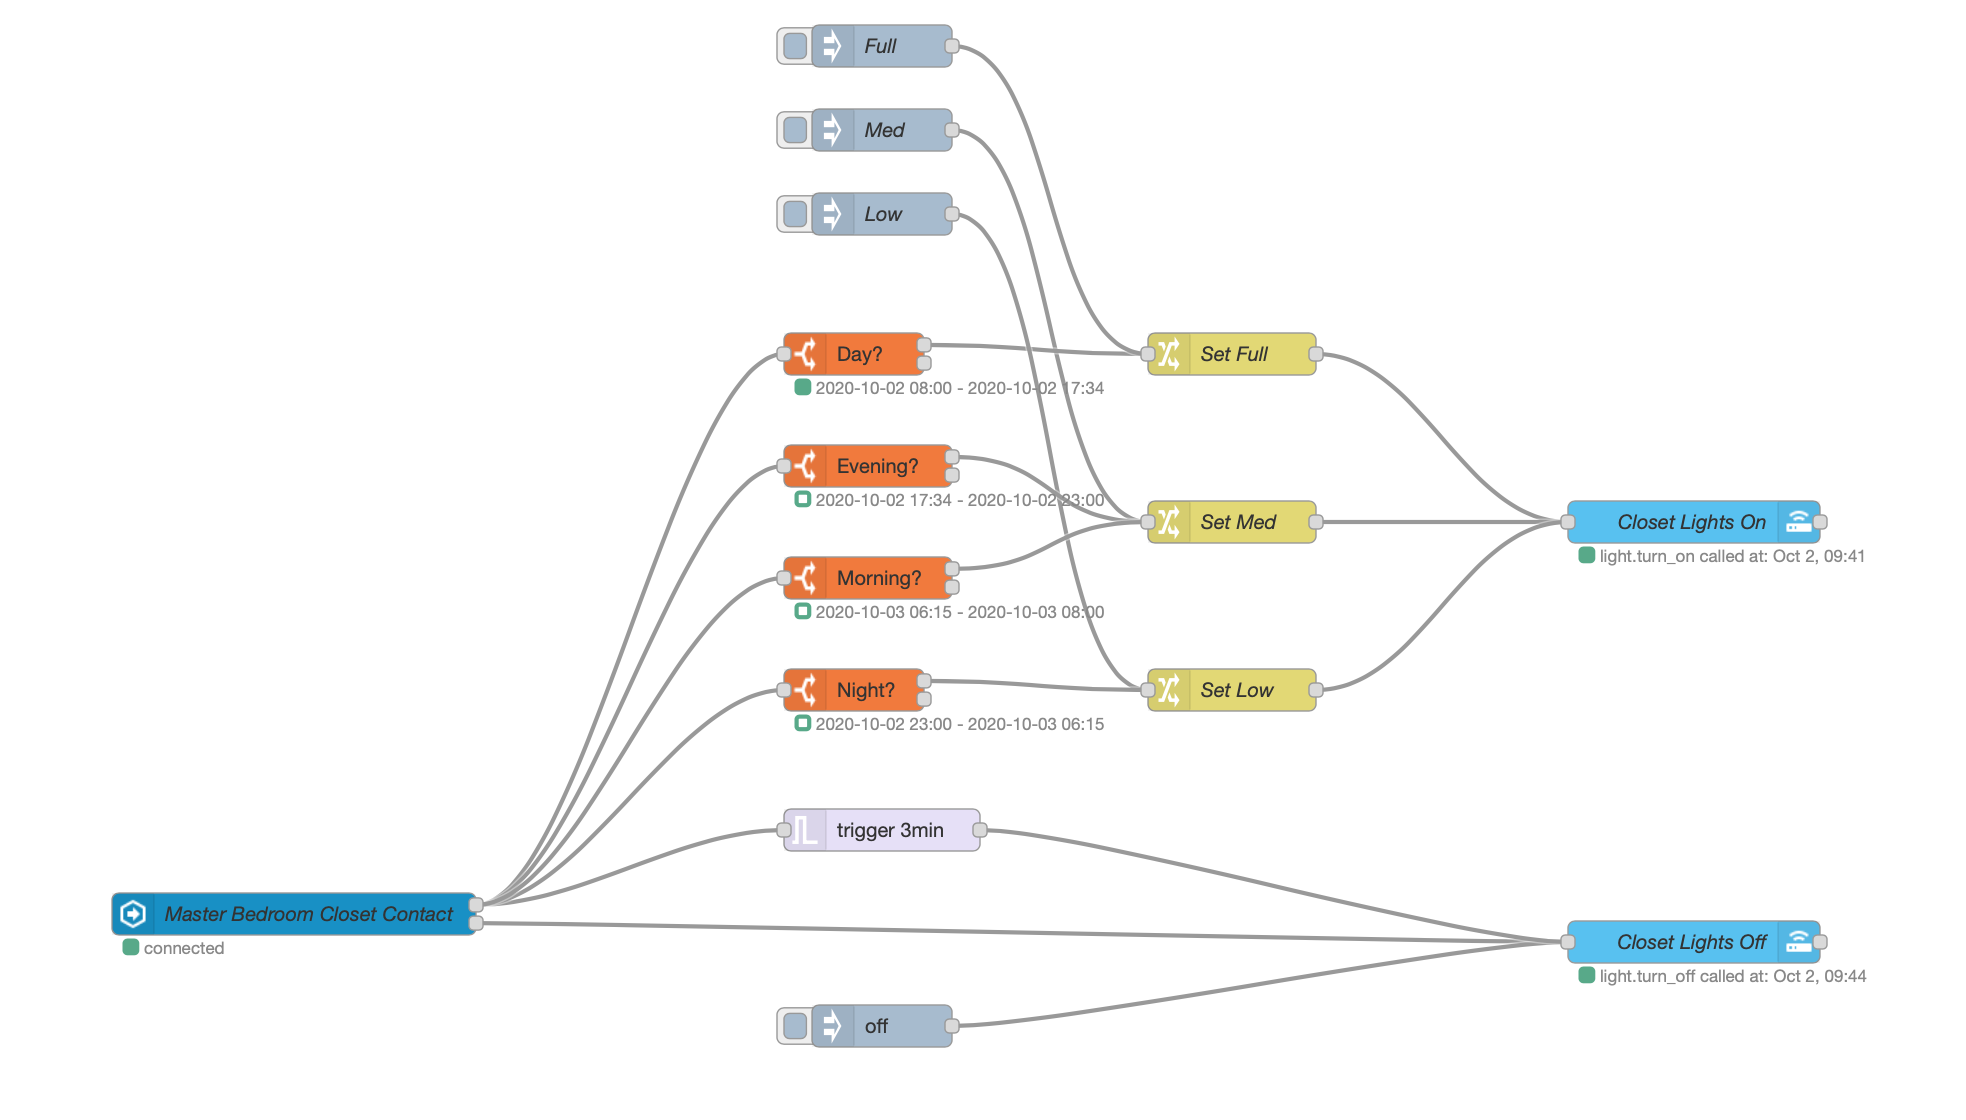
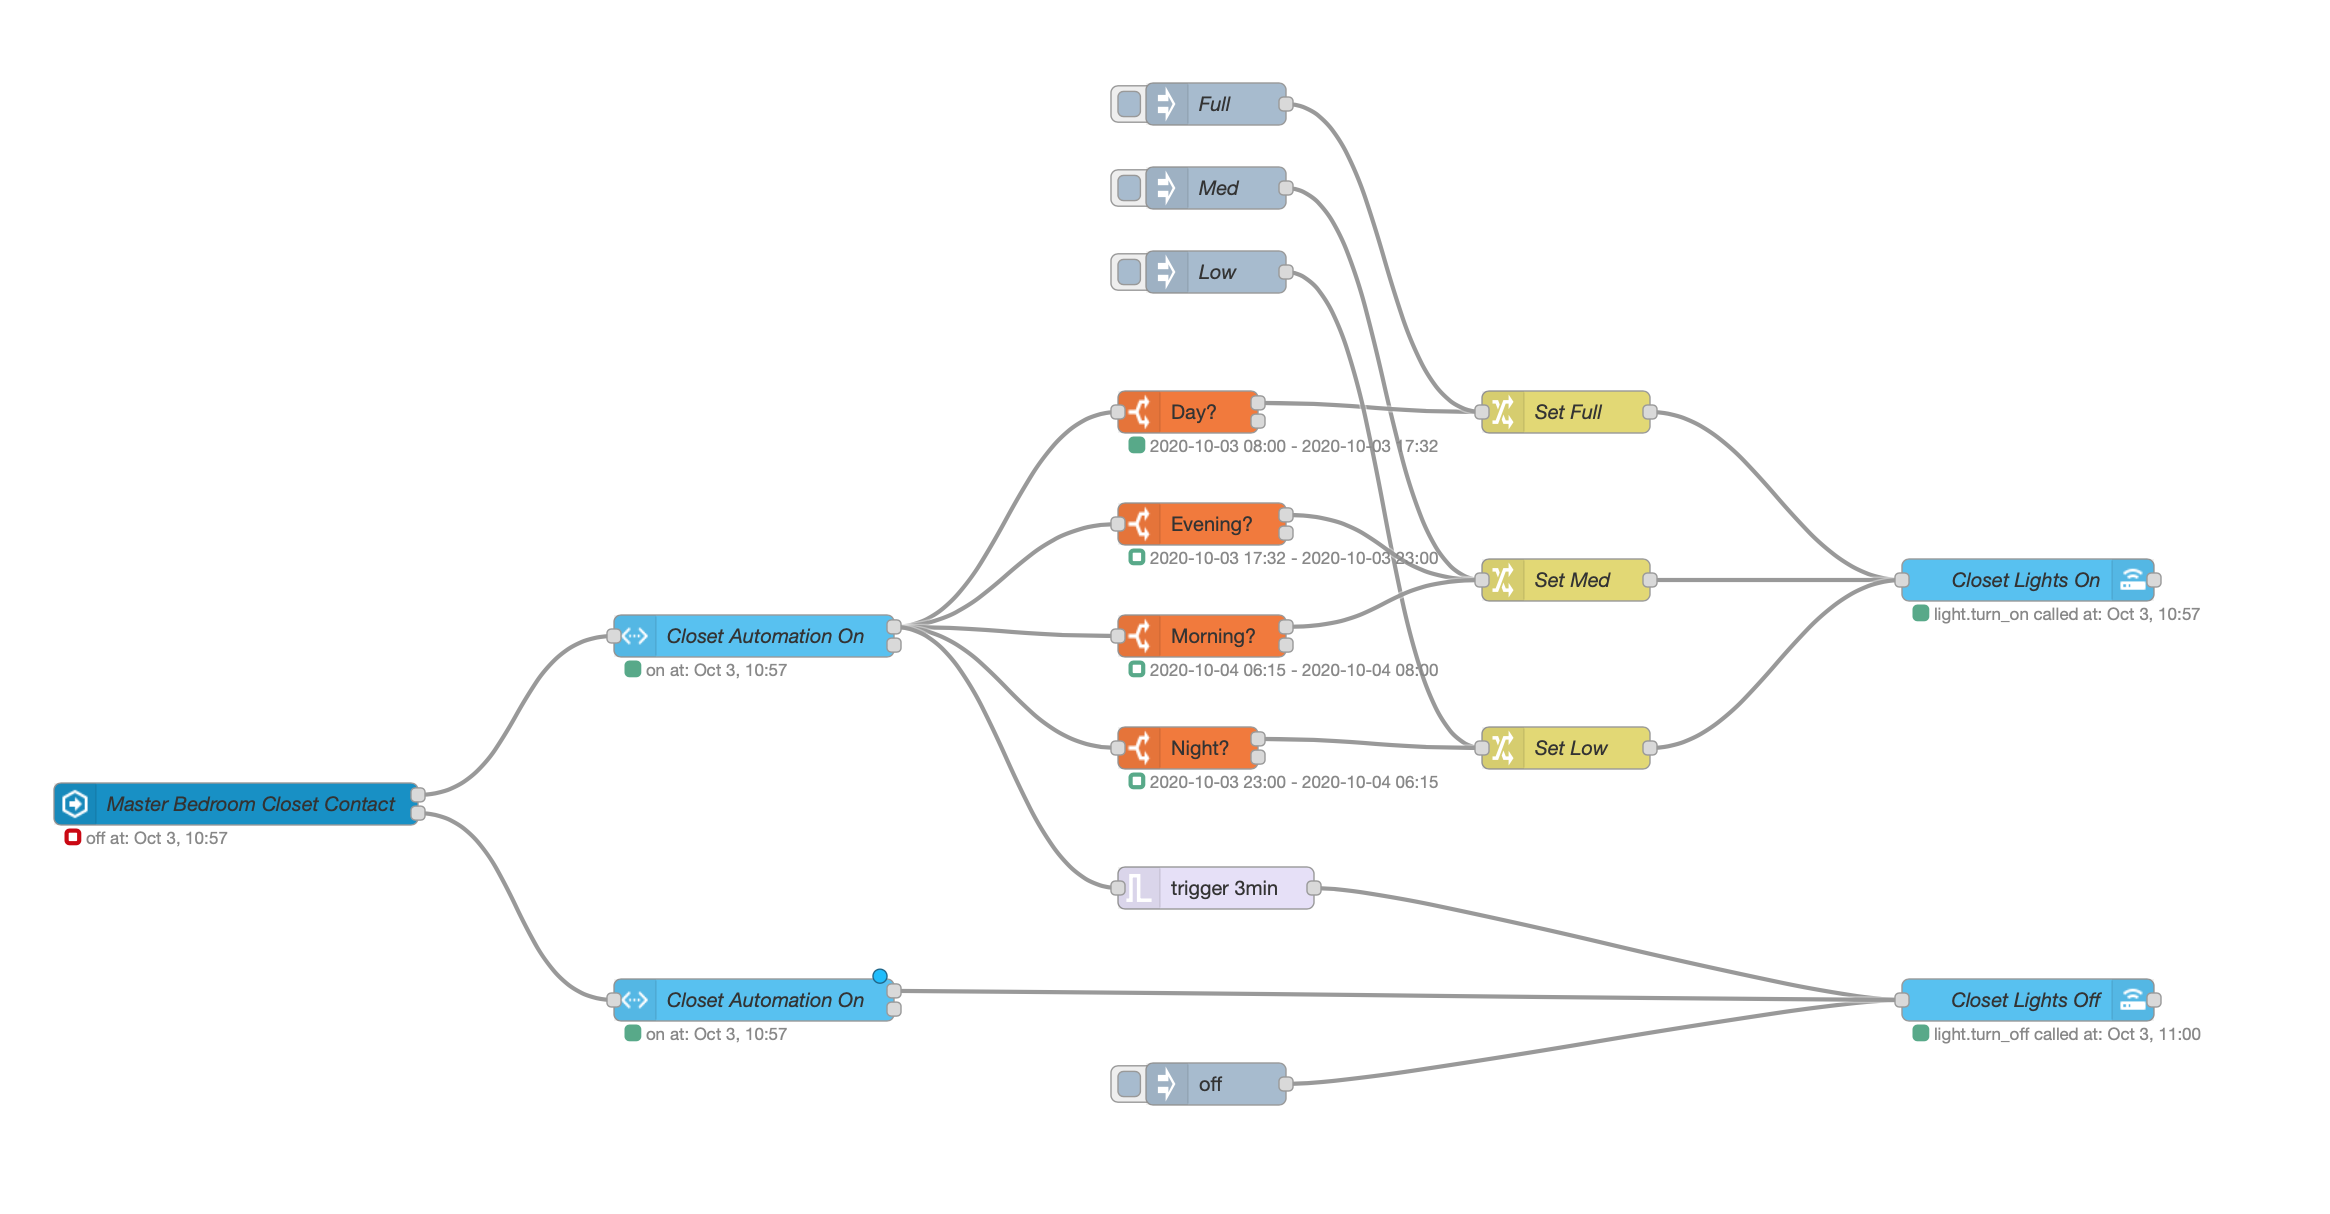
Add toggle for turn off automation

diff --git a/NodeRed/README.md b/NodeRed/README.md
@@ -18,7 +18,7 @@ In the case of usage of my webcam (Zoom, Skype,..), my Aurora light is less satu
 - [x] Add an input boolean for turn off automation from HA, Homekit and Siri
 - [ ] Control an On-Air light outside of the office base mic usage on the computer
 
-Inserte in the configuration.yaml
+Insert in the configuration.yaml
 ```yml
 input_boolean:
    office_automation:
@@ -37,9 +37,19 @@ The code: ![Office Light Json](officeLight.json)
 One of my first automation was to control the light of my closet with the door sensor (Aqara).
 - [x] Door is open -> light go on
 	(The intensity and color temperature are control base time of the day and sunrise/sunset)
-- [x]  Door is close -> light go off 
-- [x]  Door is open mode than 3 minutes -> light go off 
+- [x] Door is close -> light go off 
+- [x] Door is open mode than 3 minutes -> light go off
+- [x] Add an input boolean for turn off automation from HA, Homekit and Siri
 - [ ] Control light intensity form a luminosity sensor in the bedroom
+
+Insert in the configuration.yaml
+```yml
+input_boolean:
+   closet_automation:
+      name: Closet Automation
+      icon: mdi:home-automation
+      initial: true
+```
 
 The code: ![Closet Light Json](closetLight.json)
 
